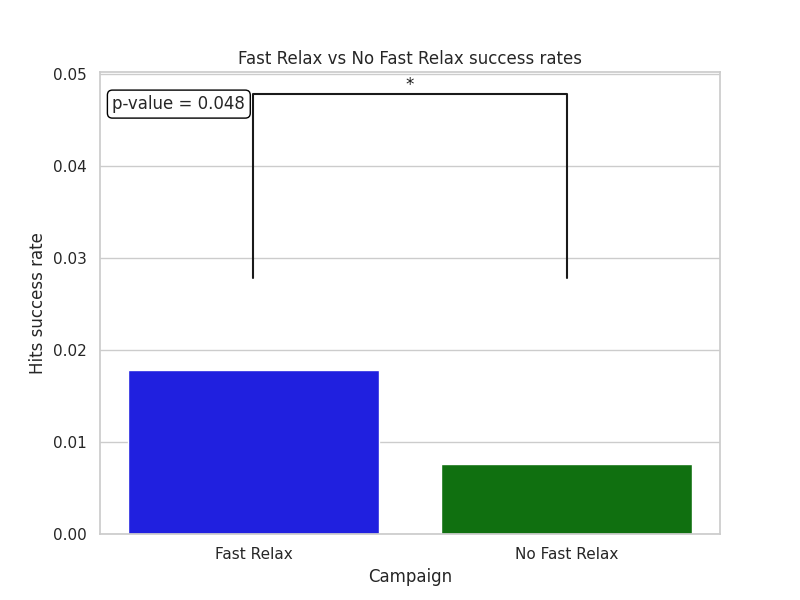
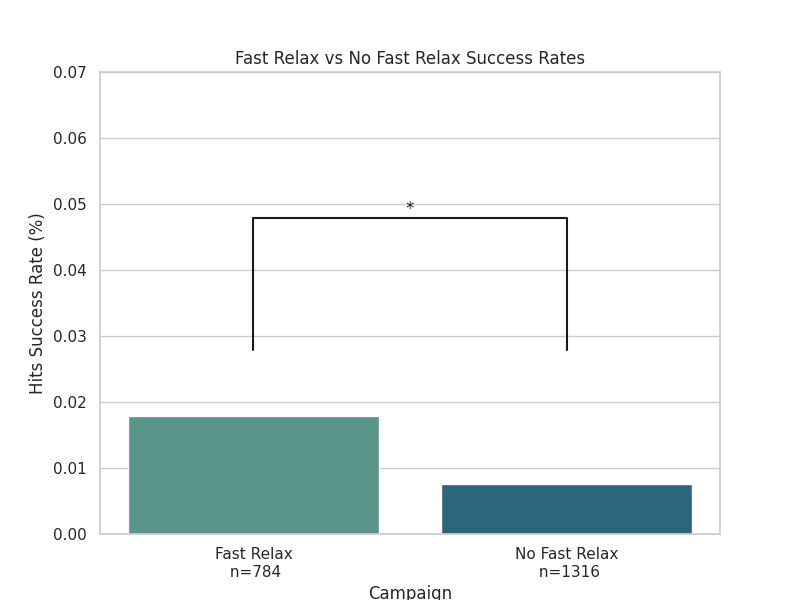
Figures

diff --git a/FIGURES/Noise_Scale_figures.py b/FIGURES/Noise_Scale_figures.py
@@ -5,6 +5,51 @@ import numpy as np
 import scipy
 import matplotlib.patches as patches
 from statannotations.Annotator import Annotator
+
+# Load data
+df = pd.read_csv('/emdata/cchacon/partial_diff_noise_scale_test/output_af2.csv')
+print(df)
+# Prepare data for plotting
+df_filtered_112 = df[df['campaign'].str.contains('run_112_noise_scale')]
+df_filtered_112['Noise'] = df_filtered_112['campaign'].str.extract('run_112_noise_scale_(\d+)').astype(str)
+df_filtered_112.loc[df_filtered_112['Noise'] == '005', 'Noise'] = 0.05
+df_filtered_112.loc[df_filtered_112['Noise'] == '01', 'Noise'] = 0.1
+df_filtered_112.loc[df_filtered_112['Noise'] == '05', 'Noise'] = 0.5
+df_filtered_112.loc[df_filtered_112['Noise'] == '1', 'Noise'] = 1.0
+
+df_barplot=pd.DataFrame()
+df_barplot['Noise']=df_filtered_112['Noise'].unique()
+percentage=[]
+# Loop through each unique noise value
+for noise in df_filtered_112['Noise'].unique():
+    # Filter the DataFrame based on the current noise level and the conditions
+    filtered = df_filtered_112[(df_filtered_112['Noise'] == noise) & 
+                        (df_filtered_112['pae_interaction'] < 10) & 
+                        (df_filtered_112['plddt_binder'] > 80)]
+    # Calculate the percentage
+    percent = len(filtered) / len(df_filtered_112[df_filtered_112['Noise'] == noise])
+    
+    # Append the result to the percentage list
+    percentage.append(percent)
+df_barplot['Percentage']=percentage
+#Barplot success rate
+plt.figure(figsize=(10, 8))
+barplot = sns.barplot(x='Noise', y='Percentage', data=df_barplot, palette='crest')
+
+# Add titles and labels
+plt.title('Noise Scale Success Rates')
+plt.ylabel('Hits Success Rate (%)')
+plt.xlabel('Noise Scale (Arb.Units)')
+barplot.set_xticklabels((f'0.05\n n={len( df_filtered_112[df_filtered_112["Noise"]==0.05])}', 
+                         f'0.1\n n={len(df_filtered_112[df_filtered_112["Noise"]==0.1])}', 
+                         f'0.5\n n={len(df_filtered_112[df_filtered_112["Noise"]==0.5])}', 
+                         f'1\n n={len(df_filtered_112[df_filtered_112["Noise"]==1])}'))
+
+# Show the plot
+plt.ylim((0,0.07))
+plt.savefig('/home/cchacon/Carlos_scripts/FIGURES/barplot_noisescale.png')
+
+
 # Load data
 df = pd.read_csv('/emdata/cchacon/partial_diff_noise_scale_test/rmsd_noise_scale.csv')
 print(df)
@@ -15,6 +60,17 @@ df_filtered_112.loc[df_filtered_112['Noise'] == '005', 'Noise'] = 0.05
 df_filtered_112.loc[df_filtered_112['Noise'] == '01', 'Noise'] = 0.1
 df_filtered_112.loc[df_filtered_112['Noise'] == '05', 'Noise'] = 0.5
 df_filtered_112.loc[df_filtered_112['Noise'] == '1', 'Noise'] = 1.0
+
+
+
+
+
+
+
+
+
+
+
 
 plt.figure(figsize=(12,10))
 sns.set_theme(style='whitegrid')

diff --git a/FIGURES/Fast_relax_figures.py b/FIGURES/Fast_relax_figures.py
@@ -78,7 +78,7 @@ sns.set(style="whitegrid")
 
 # Create a bar plot
 plt.figure(figsize=(8, 6))
-barplot = sns.barplot(x='Campaign', y='Percentage', data=df_plot, palette=['blue', 'green'])
+barplot = sns.barplot(x='Campaign', y='Percentage', data=df_plot, palette='crest')
 
 # Add significance bracket with an asterisk
 x1, x2 = 0, 1   # x-coordinates of the bars
@@ -92,14 +92,16 @@ textstr = f'p-value = {p_value}'
 props = dict(boxstyle='round,pad=0.3', edgecolor='black', facecolor='white')
 
 # Place the box in the upper left corner
-plt.gca().text(0.02, 0.95, textstr, transform=plt.gca().transAxes, fontsize=12,
-               verticalalignment='top', bbox=props)
+# plt.gca().text(0.02, 0.95, textstr, transform=plt.gca().transAxes, fontsize=12,
+#                verticalalignment='top', bbox=props)
 
 
 # Add titles and labels
-plt.title('Fast Relax vs No Fast Relax success rates')
-plt.ylabel('Hits success rate')
+plt.title('Fast Relax vs No Fast Relax Success Rates')
+plt.ylabel('Hits Success Rate (%)')
+barplot.set_xticklabels((f'Fast Relax\n n={positives_FR + negatives_FR}', f'No Fast Relax\n n={positives_noFR+negatives_noFR}'))
 # Show the plot
+plt.ylim((0,0.07))
 plt.savefig('/home/cchacon/Carlos_scripts/FIGURES/FastRelaxvsNoFRSuccessRates.png')
 
 plt.figure(figsize=(8,10))
@@ -115,7 +117,7 @@ annotator=Annotator(
     ]
 )
 annotator.configure(
-    test='t-test_ind',
+    test='Mann-Whitney',
     text_format='star',
     loc='inside',
     comparisons_correction="bonferroni")
@@ -139,7 +141,7 @@ annotator=Annotator(
     ]
 )
 annotator.configure(
-    test='t-test_ind',
+    test='Mann-Whitney',
     text_format='star',
     loc='inside',
     comparisons_correction="bonferroni")
@@ -173,7 +175,7 @@ annotator=Annotator(
     ]
 )
 annotator.configure(
-    test='t-test_ind',
+    test='Mann-Whitney',
     text_format='star',
     loc='inside',
     comparisons_correction="bonferroni")

diff --git a/FIGURES/Figure_noise_steps.py b/FIGURES/Figure_noise_steps.py
@@ -13,6 +13,49 @@ df = pd.read_csv('/emdata/cchacon/RFD_PD_test/pdbs/rmsd_noise_steps.csv')
 df_filtered = df[df['campaign'].str.contains('campaign_run_112_ns')]
 df_filtered['Noise'] = df_filtered['campaign'].str.extract('campaign_run_112_ns(\d+)').astype(int)
 
+df_whole=pd.read_csv('/emdata/cchacon/RFD_PD_test/output_af2_NS.csv')
+print(df_whole)
+
+df_barplot=pd.DataFrame()
+df_barplot['Noise']=df_whole['Noise_Steps'].unique()
+percentage=[]
+# Loop through each unique noise value
+for noise in df_whole['Noise_Steps'].unique():
+    # Filter the DataFrame based on the current noise level and the conditions
+    filtered = df_whole[(df_whole['Noise_Steps'] == noise) & 
+                        (df_whole['pae_interaction'] < 10) & 
+                        (df_whole['plddt_binder'] > 80)]
+    # Calculate the percentage
+    percent = len(filtered) / len(df_whole[df_whole['Noise_Steps'] == noise])
+    
+    # Append the result to the percentage list
+    percentage.append(percent)
+print(percentage)
+df_barplot['Percentage']=percentage
+#Barplot success rate
+plt.figure(figsize=(10, 8))
+barplot = sns.barplot(x='Noise', y='Percentage', data=df_barplot, palette='crest')
+
+# Add titles and labels
+plt.title('Noise Steps Success Rates')
+plt.ylabel('Hits Success Rate (%)')
+plt.xlabel('Noise Steps (#)')
+barplot.set_xticklabels((f'5\n n={len( df_whole[df_whole["Noise_Steps"]==5])}', 
+                         f'10\n n={len(df_whole[df_whole["Noise_Steps"]==10])}', 
+                         f'20\n n={len(df_whole[df_whole["Noise_Steps"]==20])}', 
+                         f'30\n n={len(df_whole[df_whole["Noise_Steps"]==30])}'))
+
+# Show the plot
+plt.ylim((0,0.07))
+plt.savefig('/home/cchacon/Carlos_scripts/FIGURES/barplot_noisesteps.png')
+
+
+
+
+
+
+
+
 X=[5,10,20,30]
 y=[]
 for noise in df_filtered['Noise'].unique():
